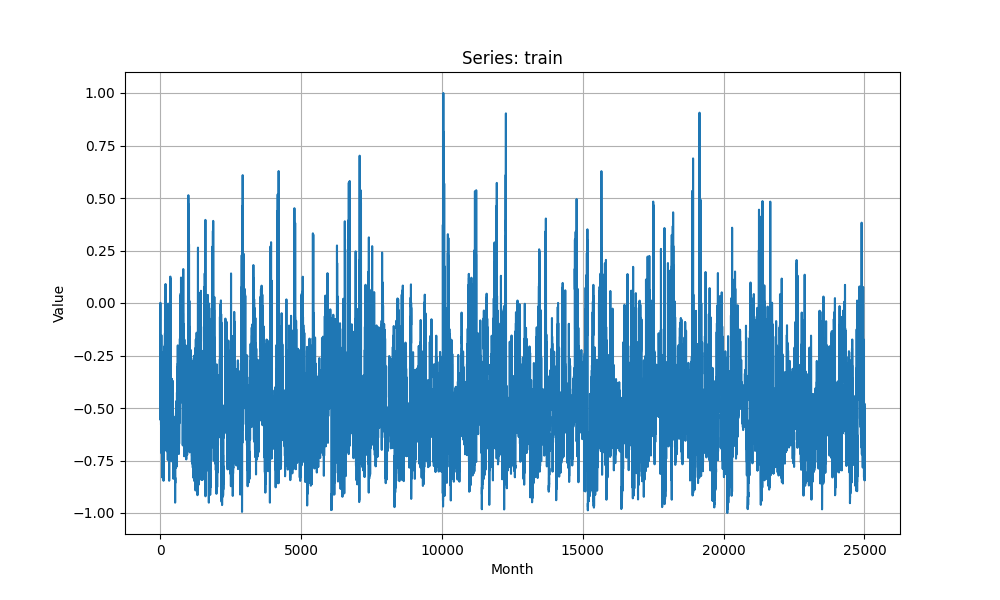
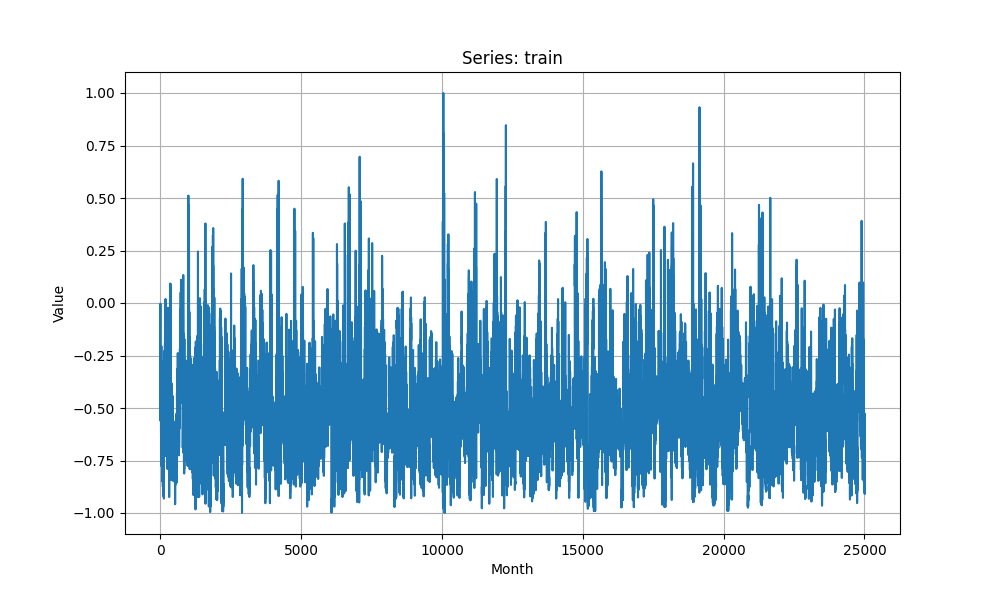
Restructured preprocess file code

diff --git a/src/preprocess.py b/src/preprocess.py
@@ -28,47 +28,54 @@ def preprocess(dataset, test=False):
 
     series_to_plot = df_long["Series"].unique()
     
-    df_detrended = pd.DataFrame()
-    
-    if not test:
-        scaler = MinMaxScaler(feature_range=(-1, 1))
-        lasso = Lasso(alpha=2.5, max_iter=10000)
-    else:
-        with open("data/train_scaler.pkl", 'rb') as f:
-            scaler = pickle.load(f)
-        with open("data/linear_regr.pkl", "rb") as f:
-            lasso = pickle.load(f)
-    
     combined_data = pd.DataFrame()
     for series in series_to_plot:
         df_filtered = df_long[df_long["Series"] == series]
         combined_data = pd.concat([combined_data, df_filtered])
 
-    data = df_long["Value"]
+    data = combined_data["Value"]
     X = np.arange(len(data)).reshape(-1, 1)
     y = data.values.reshape(-1, 1)
 
     if not test:
+        # Training phase
+        print("Fitting scaler and lasso model during training phase.")
+        scaler = MinMaxScaler(feature_range=(-1, 1))
+        lasso = Lasso(alpha=2.5, max_iter=10000)
         lasso.fit(X, y)
+
+        fitted_values = lasso.predict(X)
+        detrended_data = data - fitted_values.flatten()
+        combined_data.loc[:, "Value"] = detrended_data
+
+        combined_values = combined_data["Value"].values.reshape(-1, 1)
+        combined_data["Value"] = scaler.fit_transform(combined_values)
+        # Save the fitted model and scaler
         with open("data/linear_regr.pkl", "wb") as f:
             pickle.dump(lasso, f)
-
-    fitted_values = lasso.predict(X)
-    detrended_data = data - fitted_values.flatten()
-    combined_data.loc[:, "Value"] = detrended_data
-
-    df_detrended = combined_data
-
-    combined_values = df_detrended["Value"].values.reshape(-1, 1)
-    if not test:
-        df_detrended["Value"] = scaler.fit_transform(combined_values)
         with open("data/train_scaler.pkl", 'wb') as f:
             pickle.dump(scaler, f)
+        print("Scaler and lasso model saved.")
+
     else:
-        df_detrended["Value"] = scaler.transform(combined_values)
+        # Testing phase
+        print("Loading fitted scaler and lasso model during testing phase.")
+        try:
+            with open("data/train_scaler.pkl", 'rb') as f:
+                scaler = pickle.load(f)
+            with open("data/linear_regr.pkl", "rb") as f:
+                lasso = pickle.load(f)
+        except FileNotFoundError:
+            print("Scaler or model file not found. Ensure the model is trained before testing.")
+            raise
 
-    return df_detrended
+        print("Scaler and lasso model loaded successfully.")
+        
+        fitted_values = lasso.predict(X)
+        detrended_data = data - fitted_values.flatten()
+        combined_data.loc[:, "Value"] = detrended_data
 
+        combined_values = combined_data["Value"].values.reshape(-1, 1)
+        combined_data["Value"] = scaler.transform(combined_values)
 
-
-
+    return combined_data

diff --git a/main.py b/main.py
@@ -201,7 +201,7 @@ if __name__ == "__main__":
 
     train_val_data, test_data = load_and_preprocess_data()
     print(test_data)
-    tuning_mode = True  # runs the tuning mode wwith the optuna study
+    tuning_mode = False  # runs the tuning mode wwith the optuna study
     train_model = True  # trains the final model with hyperparams
 
     if tuning_mode:
